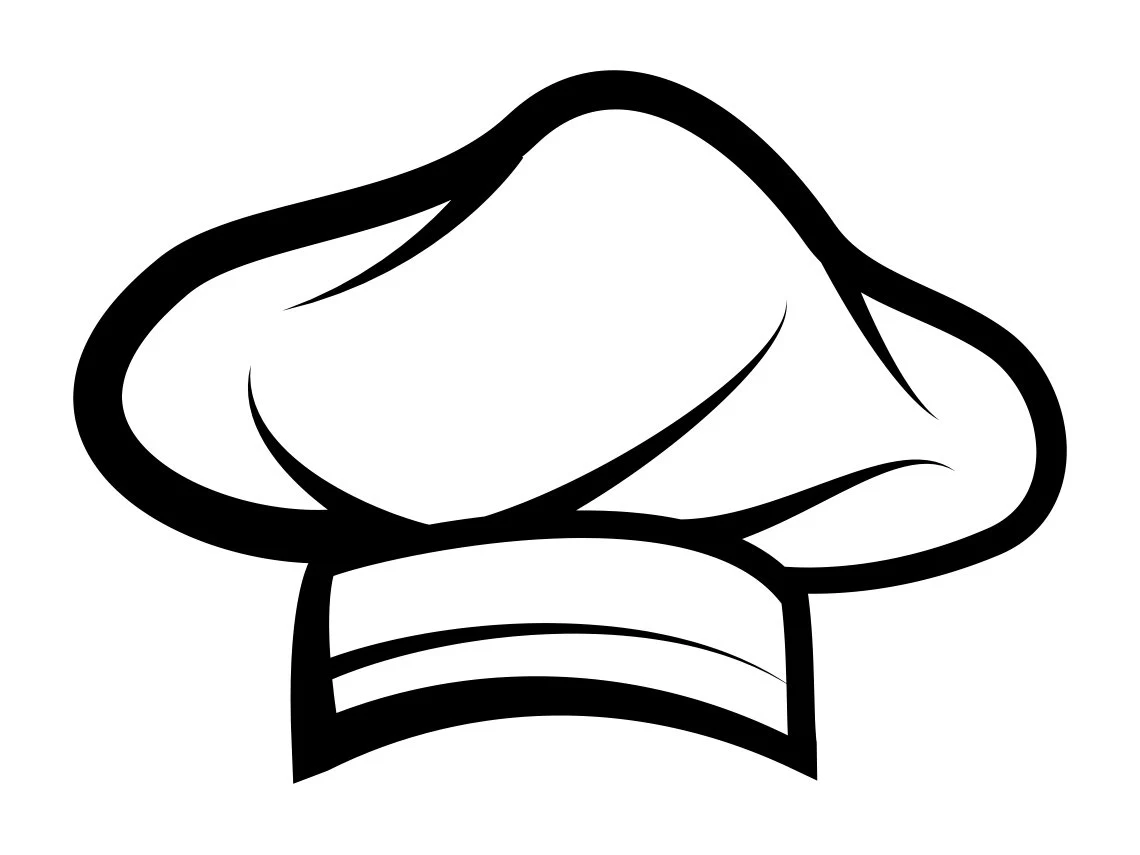
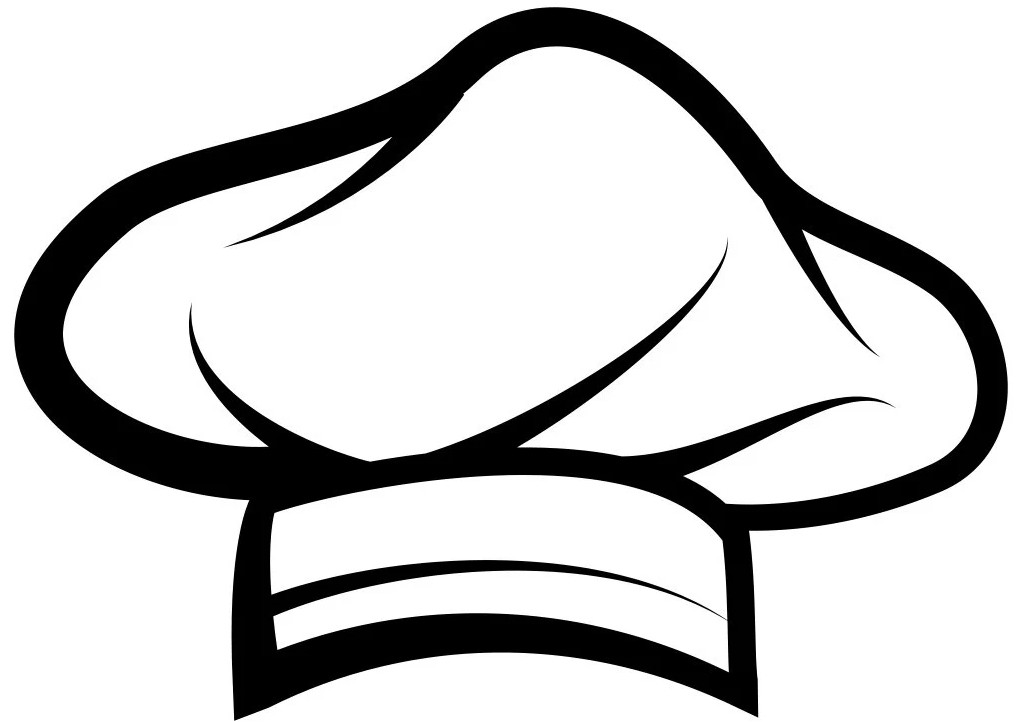
Filled out stylesheet for index

Changed region(s): [[0.0, 0.0, 1.0, 1.0]]

diff --git a/index.html b/index.html
@@ -7,12 +7,12 @@
     </head>
 
     <body>
-        <img src="images/chef-hat.jpg" height="150" width="225" alt="silly chef hat">
+        <img src="images/chef-hat.jpg" height="250" width="auto" alt="silly chef hat">
         <h1>Odin Recipes</h1>
         <ul>
-            <li><a href="recipes/lasagna.html">Lasagna</a></li>
-            <li><a href="recipes/broccoli-salad.html">Broccoli Salad</a></li>
-            <li><a href="recipes/cookies.html">Chocolate Chip Cookies</a></li>
+            <li id="las"><a href="recipes/lasagna.html">Lasagna</a></li>
+            <li id="broc"><a href="recipes/broccoli-salad.html">Broccoli Salad</a></li>
+            <li id="cook"><a href="recipes/cookies.html">Chocolate Chip Cookies</a></li>
         </ul>
     </body>
 </hmtl>

diff --git a/recipes/lasagna.html b/recipes/lasagna.html
@@ -2,14 +2,15 @@
 <html lang="en">
     <head>
         <meta charset="UTF-8">
+        <link rel="stylesheet" href="style-recipes.css">
         <title>Lasagna</title>
     </head>
 
     <body>
         <p><a href="../index.html">Return to Homepage</a></p>
 
+        <img src="../images/lasagna.jpg" height="400" width="auto" alt="delicious lasagna">
         <h1>Lasagna</h1>
-        <img src="../images/lasagna.jpg" height="350" width="350" alt="delicious lasagna">
 
         <p>One of our top-performing recipes of all time, World's Best Lasagna racks up more than 7 million views per year
             <br>and has ranked among the most popular lasagna recipes on the internet for two decades.</br></p>

diff --git a/style.css b/style.css
@@ -4,5 +4,34 @@
 
 h1 {
     text-align: center;
-    font-size: 200px;
+    font-size: 100px;
+}
+
+img {
+    display: block;
+    margin-left: auto;
+    margin-right: auto;
+}
+
+ul {
+    list-style-type: none;
+    font-size: 35px;
+}
+
+#las {
+    margin-left: 850px;
+    margin-right: 905px;
+    background-color: rgb(231, 211, 24);
+}
+
+#broc {
+    margin-left: 805px;
+    margin-right: 858px;
+    background-color: rgb(44, 209, 2);
+}
+
+#cook {
+    margin-left: 805px;
+    margin-right: 858px;
+    background-color: rgb(165, 65, 39);
 }

diff --git a/recipes/style-recipes.css b/recipes/style-recipes.css
@@ -1,0 +1,14 @@
+* {
+    font-family: 'Times New Roman', Times, serif;
+}
+
+h1 {
+    text-align: center;
+    font-size: 100px;
+}
+
+img {
+    display: block;
+    margin-left: auto;
+    margin-right: auto;
+  }
